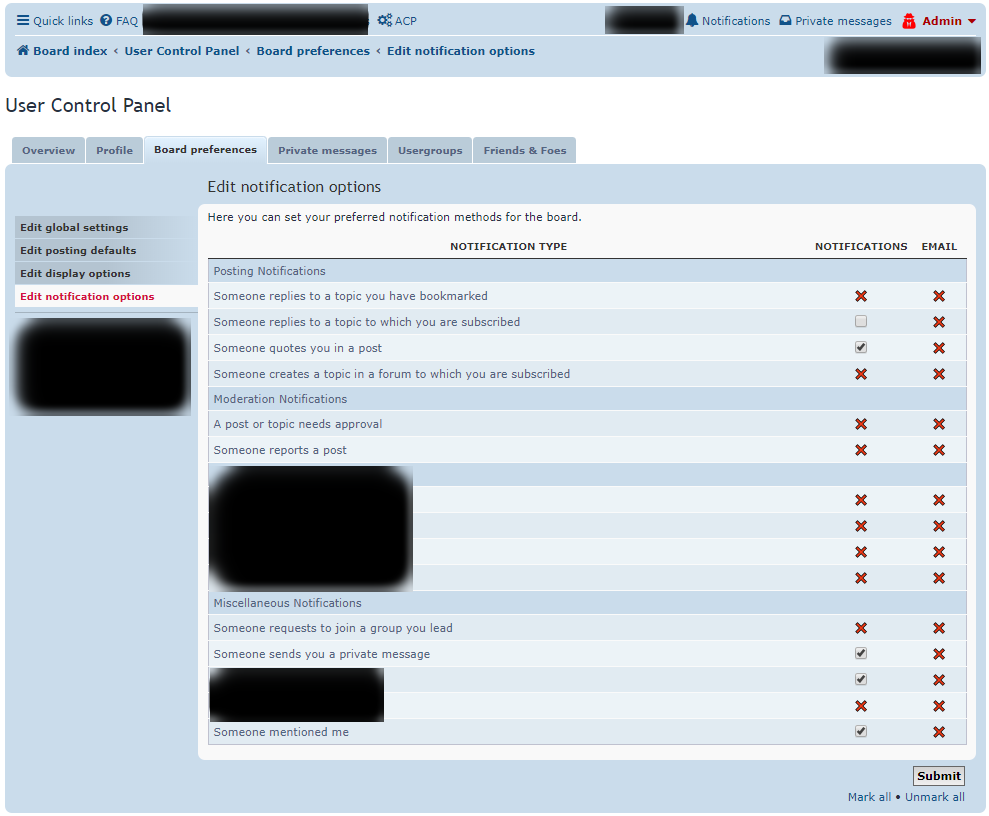
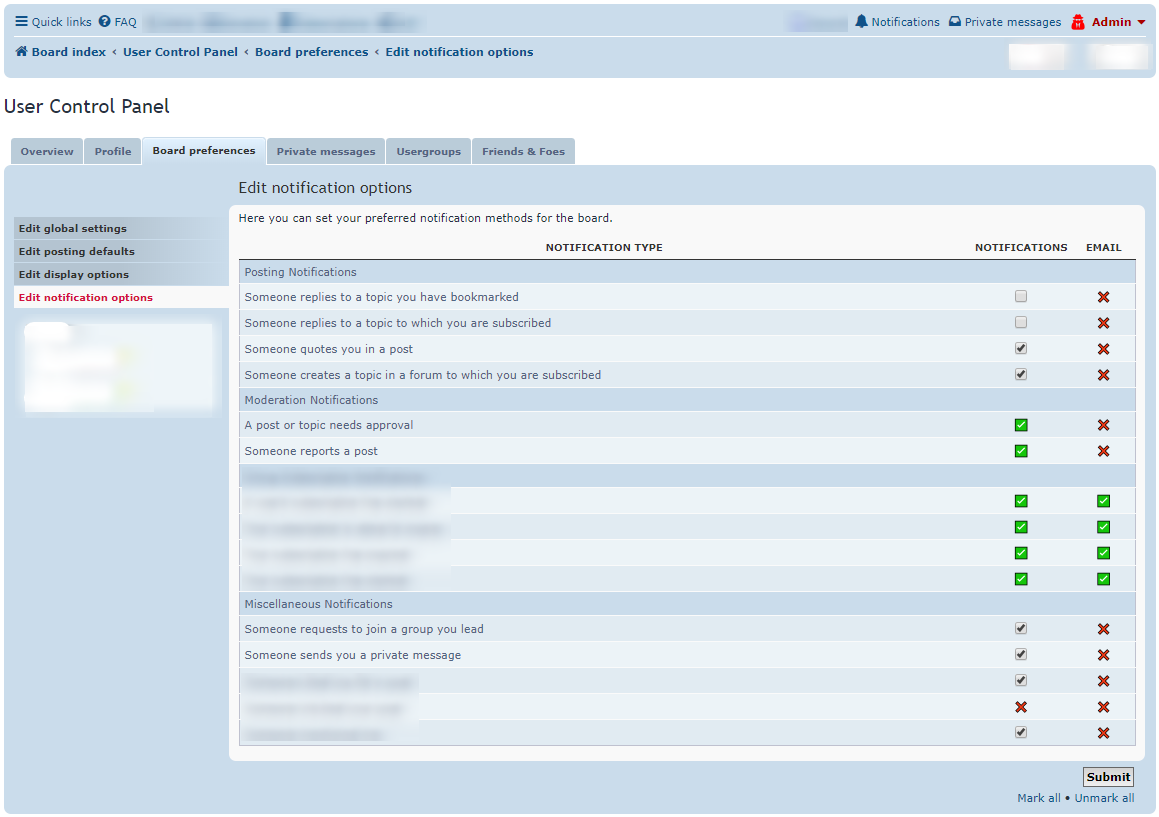
UNC GH-Page

diff --git a/README.md b/README.md
@@ -7,7 +7,7 @@ This Extension Lets Admin to control User Notification .  😉
 ![Travis-CI](https://img.shields.io/badge/Travis-CI-8000FF.svg) : [![Build Status](https://travis-ci.com/dark-1/usernotificationcontrol.svg?branch=master)](https://travis-ci.com/dark-1/usernotificationcontrol)   
 ![Scrutinizer-CI](https://img.shields.io/badge/Scrutinizer-CI-8000FF.svg) : [![Scrutinizer Code Quality](https://scrutinizer-ci.com/g/dark-1/usernotificationcontrol/badges/quality-score.png?b=master)](https://scrutinizer-ci.com/g/dark-1/usernotificationcontrol/?branch=master) [![Build Status](https://scrutinizer-ci.com/g/dark-1/usernotificationcontrol/badges/build.png?b=master)](https://scrutinizer-ci.com/g/dark-1/usernotificationcontrol/build-status/master)   
 ![Actions-CI](https://img.shields.io/badge/Actions-CI-8000FF.svg) : [![Actions Status](https://github.com/dark-1/usernotificationcontrol/workflows/Actions%20CI/badge.svg)](https://github.com/dark-1/usernotificationcontrol/actions?workflow=Actions%20CI)   
-![Shields.IO](https://img.shields.io/badge/Shields-IO-8000FF.svg?style=flat-square) : [![GitHub release](https://img.shields.io/github/release/dark-1/usernotificationcontrol.svg?style=flat-square) ![license](https://img.shields.io/github/license/dark-1/usernotificationcontrol.svg?style=flat-square) ![Github All Releases](https://img.shields.io/github/downloads/dark-1/usernotificationcontrol/total.svg?style=flat-square) ![HitCount](http://hits.dwyl.io/dark-1/usernotificationcontrol.svg)](https://github.com/dark-1/usernotificationcontrol)   
+![Shields.IO](https://img.shields.io/badge/Shields-IO-8000FF.svg?style=flat-square) : [![GitHub release](https://img.shields.io/github/release/dark-1/usernotificationcontrol.svg?style=flat-square) ![license](https://img.shields.io/github/license/dark-1/usernotificationcontrol.svg?style=flat-square) ![Github All Releases](https://img.shields.io/github/downloads/dark-1/usernotificationcontrol/total.svg?style=flat-square)](https://github.com/dark-1/usernotificationcontrol)   
    
    
 ## **Features :**   
@@ -27,8 +27,11 @@ This Extension Lets Admin to control User Notification .  😉
 2. UCP Notification 1 Page:   
 [![Index](./image/02.UCP.Notification.01.png "UCP Notification 1")](./image/02.UCP.Notification.01.png)   
    
-3. UCP Notification 2 Page Tooltip:   
+3. UCP Notification 2 Page Tooltip Enabled:   
 [![Index](./image/03.UCP.Notification.02.png "UCP Notification 2")](./image/03.UCP.Notification.02.png)   
+   
+4. UCP Notification 3 Page Tooltip Disabled:   
+[![Index](./image/04.UCP.Notification.03.png "UCP Notification 3")](./image/04.UCP.Notification.03.png)   
    
    
 ## **Installation :**   
